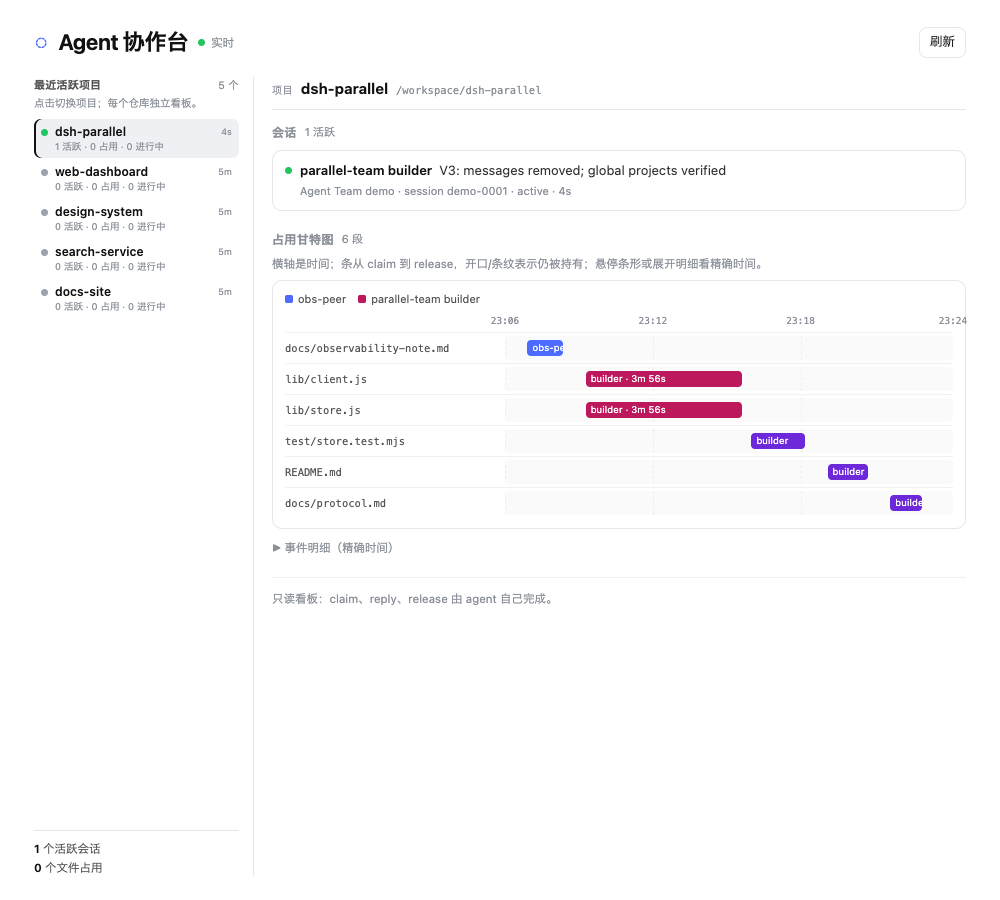
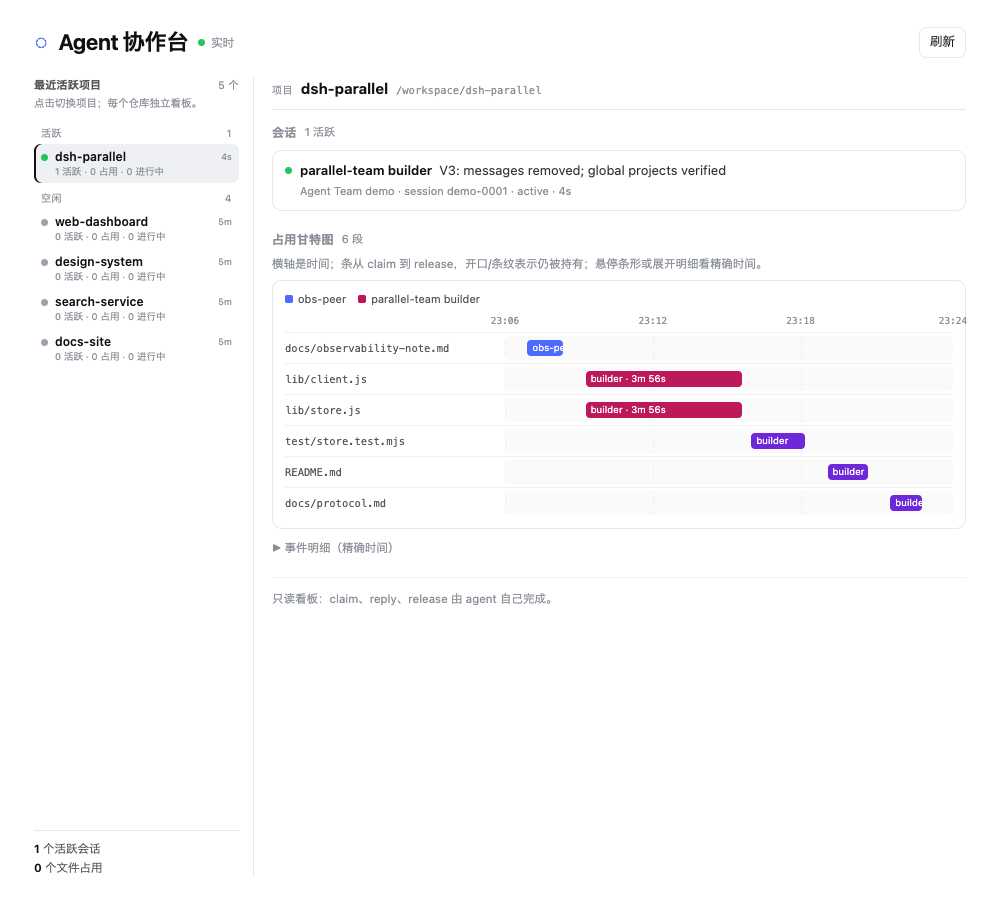
feat(ui): group project rail and add Gantt hover tooltip

Changed region(s): [[0.031, 0.1244, 0.155, 0.4044], [0.217, 0.3111, 0.248, 0.3422], [0.217, 0.2178, 0.248, 0.2489]]

diff --git a/lib/client.js b/lib/client.js
@@ -101,12 +101,13 @@ window.__ModuleLoader__.load({
       '.pt-side-title{font-size:11px;font-weight:650;letter-spacing:.02em;color:var(--dsw-alias-label-secondary,#555);text-transform:uppercase}',
       '.pt-side-count{font-size:10.5px;color:var(--dsw-alias-label-tertiary,#8a8f98)}',
       '.pt-side-note{font-size:10.5px;line-height:1.4;color:var(--dsw-alias-label-tertiary,#8a8f98);margin:0 0 7px}',
-      '.pt-projects{display:flex;flex-direction:column;gap:1px;flex:1;min-height:0;overflow:auto;padding-right:2px}',
+      '.pt-projects{display:flex;flex-direction:column;gap:1px;flex:1;min-height:0;overflow:auto;padding-right:2px;scrollbar-gutter:stable;scrollbar-color:var(--dsw-alias-border-l3,#d1d5db) transparent}',
+      '.pt-project-group{display:flex;align-items:baseline;justify-content:space-between;gap:6px;padding:7px 7px 2px;font-size:10px;letter-spacing:.04em;text-transform:uppercase;color:var(--dsw-alias-label-tertiary,#8a8f98)}',
       '.pt-project{display:flex;align-items:flex-start;gap:7px;width:100%;text-align:left;font:inherit;line-height:1.2;cursor:pointer;border:0;border-radius:7px;padding:5px 7px;background:transparent;color:inherit}',
       '.pt-project:hover{background:var(--dsw-alias-bg-layer-2,#f1f2f4)}',
       '.pt-project.selected{background:var(--dsw-alias-bg-layer-2,#eef0f3);box-shadow:inset 2px 0 0 var(--dsw-alias-label-primary,#111)}',
       '.pt-project-dot{width:7px;height:7px;border-radius:50%;flex:none;margin-top:5px;background:var(--dsw-alias-label-dimmed,#9ca3af)}',
-      '.pt-project-dot.active{background:var(--dsw-alias-state-success-primary,#22c55e)}',
+      '.pt-project-dot.active{background:var(--dsw-alias-state-success-primary,#22c55e);animation:pt-dot-pulse 2.4s ease-out infinite}',
       '.pt-project-dot.claimed{background:var(--dsw-alias-state-warn-primary,#f59e0b)}',
       '.pt-project-body{display:flex;flex-direction:column;gap:1px;min-width:0;flex:1}',
       '.pt-project-line{display:flex;align-items:center;gap:6px;min-width:0;line-height:16px}',
@@ -135,6 +136,11 @@ window.__ModuleLoader__.load({
       '.pt-gantt-bar{position:absolute;top:4px;height:16px;border-radius:4px;min-width:3px;color:#fff;font-size:9.5px;display:flex;align-items:center;padding:0 5px;overflow:hidden;white-space:nowrap;box-shadow:0 1px 1px rgba(0,0,0,.12)}',
       '.pt-gantt-bar.active{background-image:repeating-linear-gradient(45deg,rgba(255,255,255,.22) 0 4px,transparent 4px 8px);box-shadow:0 0 0 2px color-mix(in srgb,var(--dsw-alias-state-warn-primary,#f59e0b) 45%,transparent)}',
       '.pt-gantt-bar-label{overflow:hidden;text-overflow:ellipsis}',
+      '.pt-gantt-bar:focus-visible{outline:2px solid var(--dsw-alias-brand-primary,#4d6bfe);outline-offset:2px}',
+      '.pt-tip{position:fixed;z-index:9999;pointer-events:none;transform:translate(-50%,-100%);max-width:320px;border:1px solid var(--dsw-alias-border-l2,#e5e7eb);border-radius:8px;background:var(--dsw-alias-bg-layer-2,#fff);color:var(--dsw-alias-label-primary,#111);box-shadow:0 8px 24px rgba(0,0,0,.14);padding:8px 10px;font-size:11px;line-height:1.4}',
+      '.pt-tip-title{font-family:var(--dsw-font-markdown-code-font-family,ui-monospace,SFMono-Regular,Menlo,monospace);font-size:10.5px;font-weight:600;word-break:break-all;margin-bottom:3px}',
+      '.pt-tip-line{color:var(--dsw-alias-label-secondary,#555);white-space:nowrap}',
+      '.pt-tip-note{color:var(--dsw-alias-label-tertiary,#8a8f98);margin-top:3px;word-break:break-word}',
       '.pt-gantt-now{position:absolute;top:0;bottom:0;border-left:1px solid var(--dsw-alias-label-error,#dc2626);opacity:.7}',
       '.pt-details{margin-top:10px;font-size:12px;color:var(--dsw-alias-label-secondary,#555)}',
       '.pt-details summary{cursor:pointer;font-size:11.5px;color:var(--dsw-alias-label-tertiary,#8a8f98)}',
@@ -155,6 +161,8 @@ window.__ModuleLoader__.load({
       '.pt-tl-note{color:var(--dsw-alias-label-tertiary,#8a8f98);flex:1 1 220px;word-break:break-word}',
       '.pt-tl-session{font-size:10.5px;color:var(--dsw-alias-label-tertiary,#8a8f98);flex:none}',
       '.pt-readonly{font-size:11.5px;color:var(--dsw-alias-label-tertiary,#8a8f98);border-top:1px solid var(--dsw-alias-border-l1,#eef0f2);padding-top:12px;margin-top:8px}',
+      '@keyframes pt-dot-pulse{0%{box-shadow:0 0 0 0 color-mix(in srgb,var(--dsw-alias-state-success-primary,#22c55e) 45%,transparent)}70%{box-shadow:0 0 0 5px transparent}100%{box-shadow:0 0 0 0 transparent}}',
+      '@media(prefers-reduced-motion:reduce){.pt-project-dot.active{animation:none}}',
       '@media(max-width:640px){.pt-root{padding:18px 16px 48px}.pt-focus{flex-basis:100%}}',
     ].join('\n');
 
@@ -287,10 +295,14 @@ window.__ModuleLoader__.load({
       };
     }
 
+    function projectStatus(project) {
+      return project.status || (project.active > 0 ? 'active' : project.claims > 0 ? 'claimed' : 'idle');
+    }
+
     function ProjectRow(props) {
       const project = props.project;
       const selected = props.selected;
-      const status = project.status || (project.active > 0 ? 'active' : project.claims > 0 ? 'claimed' : 'idle');
+      const status = projectStatus(project);
       const seen = project.lastActivityAt || project.lastSeenAt;
       const title = [project.root, project.lastSummary, status].filter(Boolean).join('\n');
       return h(
@@ -327,16 +339,40 @@ window.__ModuleLoader__.load({
     function ProjectsSection(props) {
       if (props.projects.length === 0)
         return h('div', { className: 'pt-empty' }, L('还没有项目看板', 'No project boards yet'));
+      const groups = [
+        {
+          key: 'active',
+          label: L('活跃', 'Active'),
+          items: props.projects.filter((project) => projectStatus(project) !== 'idle'),
+        },
+        {
+          key: 'idle',
+          label: L('空闲', 'Idle'),
+          items: props.projects.filter((project) => projectStatus(project) === 'idle'),
+        },
+      ].filter((group) => group.items.length > 0);
       return h(
         'div',
         { className: 'pt-projects' },
-        props.projects.map((project) =>
-          h(ProjectRow, {
-            key: project.root,
-            project,
-            selected: project.root === props.selectedRoot,
-            onSelect: props.onSelect,
-          }),
+        groups.map((group) =>
+          h(
+            React.Fragment,
+            { key: group.key },
+            h(
+              'div',
+              { className: 'pt-project-group' },
+              h('span', null, group.label),
+              h('span', null, String(group.items.length)),
+            ),
+            group.items.map((project) =>
+              h(ProjectRow, {
+                key: project.root,
+                project,
+                selected: project.root === props.selectedRoot,
+                onSelect: props.onSelect,
+              }),
+            ),
+          ),
         ),
       );
     }
@@ -467,6 +503,7 @@ window.__ModuleLoader__.load({
     }
 
     function GanttSection(props) {
+      const [tip, setTip] = React.useState(null);
       const intervals = props.intervals;
       if (intervals.length === 0)
         return h('div', { className: 'pt-empty' }, L('还没有占用/释放记录', 'No claim/release events yet'));
@@ -490,6 +527,20 @@ window.__ModuleLoader__.load({
       );
       const hasActive = intervals.some((item) => item.active);
       const nowLeft = ((now - axisStart) / span) * 100;
+      const showTip = (event, item, path) => {
+        const rect = event.currentTarget.getBoundingClientRect();
+        setTip({
+          x: Math.min(Math.max(rect.left + rect.width / 2, 120), window.innerWidth - 120),
+          y: rect.top - 6,
+          path,
+          actor: item.agentName,
+          duration: fmtDuration(item.end - item.start),
+          start: stamp(item.start),
+          end: item.active ? L('现在', 'now') : stamp(item.end),
+          active: item.active,
+          note: [item.intent, item.summary].filter(Boolean).join(' · '),
+        });
+      };
       return h(
         'div',
         { className: 'pt-gantt' },
@@ -557,7 +608,13 @@ window.__ModuleLoader__.load({
                     {
                       className: 'pt-gantt-bar' + (item.active ? ' active' : ''),
                       key: index,
-                      title,
+                      role: 'img',
+                      tabIndex: 0,
+                      'aria-label': title.replace(/\n/g, ' · '),
+                      onMouseEnter: (event) => showTip(event, item, path),
+                      onFocus: (event) => showTip(event, item, path),
+                      onMouseLeave: () => setTip(null),
+                      onBlur: () => setTip(null),
                       style: {
                         left: left + '%',
                         width: width + '%',
@@ -580,6 +637,16 @@ window.__ModuleLoader__.load({
             ),
           ),
         ),
+        tip
+          ? h(
+              'div',
+              { className: 'pt-tip', style: { left: tip.x, top: tip.y } },
+              h('div', { className: 'pt-tip-title' }, tip.path),
+              h('div', { className: 'pt-tip-line' }, tip.actor + ' · ' + tip.duration + (tip.active ? ' · held' : '')),
+              h('div', { className: 'pt-tip-line' }, tip.start + ' → ' + tip.end),
+              tip.note ? h('div', { className: 'pt-tip-note' }, tip.note) : null,
+            )
+          : null,
       );
     }
 

diff --git a/README.en.md b/README.en.md
@@ -89,8 +89,8 @@ The UI renders these events as a per-file Gantt chart. A bar runs from claim to 
 
 One read-only screen, split into a master-detail layout:
 
-- **Project rail (left)**: full height, sticky; recent projects with status dot, active sessions, claims, active changes, and last activity. The selected project's session and file counts sit in a footer at the bottom.
-- **Detail pane (right)**: project path, sessions, claim Gantt, and a collapsible exact-time event list.
+- **Project rail (left)**: full height, sticky; projects grouped into Active / Idle, with one shared status-dot vocabulary, active sessions, claims, active changes, and last activity. The selected project's session and file counts sit in a footer at the bottom. Active dots pulse subtly and stop under reduced-motion.
+- **Detail pane (right)**: project path, sessions, claim Gantt, and a collapsible exact-time event list. Bars expose a positioned tooltip on hover or keyboard focus with file, actor, start/end, duration, and intent/summary.
 - **No inputs**: no composer, no message box, no reply/release button. Project rows are navigation buttons; Refresh is the only action button.
 
 On narrow screens the project rail becomes a horizontal scrollable list above the detail pane.

diff --git a/README.md b/README.md
@@ -89,8 +89,8 @@ claim 是精确到文件路径的，不支持目录或 glob。
 
 一个只读界面，两栏 master-detail：
 
-- **左侧项目栏**：全高、sticky；显示最近活跃项目、状态点、活跃会话数、占用数、进行中 change 数、最后活动时间；底部固定显示当前项目的活跃会话 / 文件占用统计。
-- **右侧详情区**：当前项目路径、会话列表、占用甘特图、可展开的精确事件明细。
+- **左侧项目栏**：全高、sticky；项目按活跃 / 空闲分组，显示统一状态灯、活跃会话数、占用数、进行中 change 数、最后活动时间；底部固定显示当前项目的活跃会话 / 文件占用统计。活跃状态灯有轻微呼吸灯，reduced-motion 下自动关闭。
+- **右侧详情区**：当前项目路径、会话列表、占用甘特图、可展开的精确事件明细。甘特条支持 hover / 键盘 focus 的定位 tooltip，直接显示文件、持有者、起止时间、持续时长和 intent/summary。
 - **没有输入框**：没有 composer，没有消息框，没有“回复/释放”按钮。项目行是导航按钮，刷新是唯一的 action button。
 
 窄屏时，左侧项目栏会自动变成横向可滚动列表。
